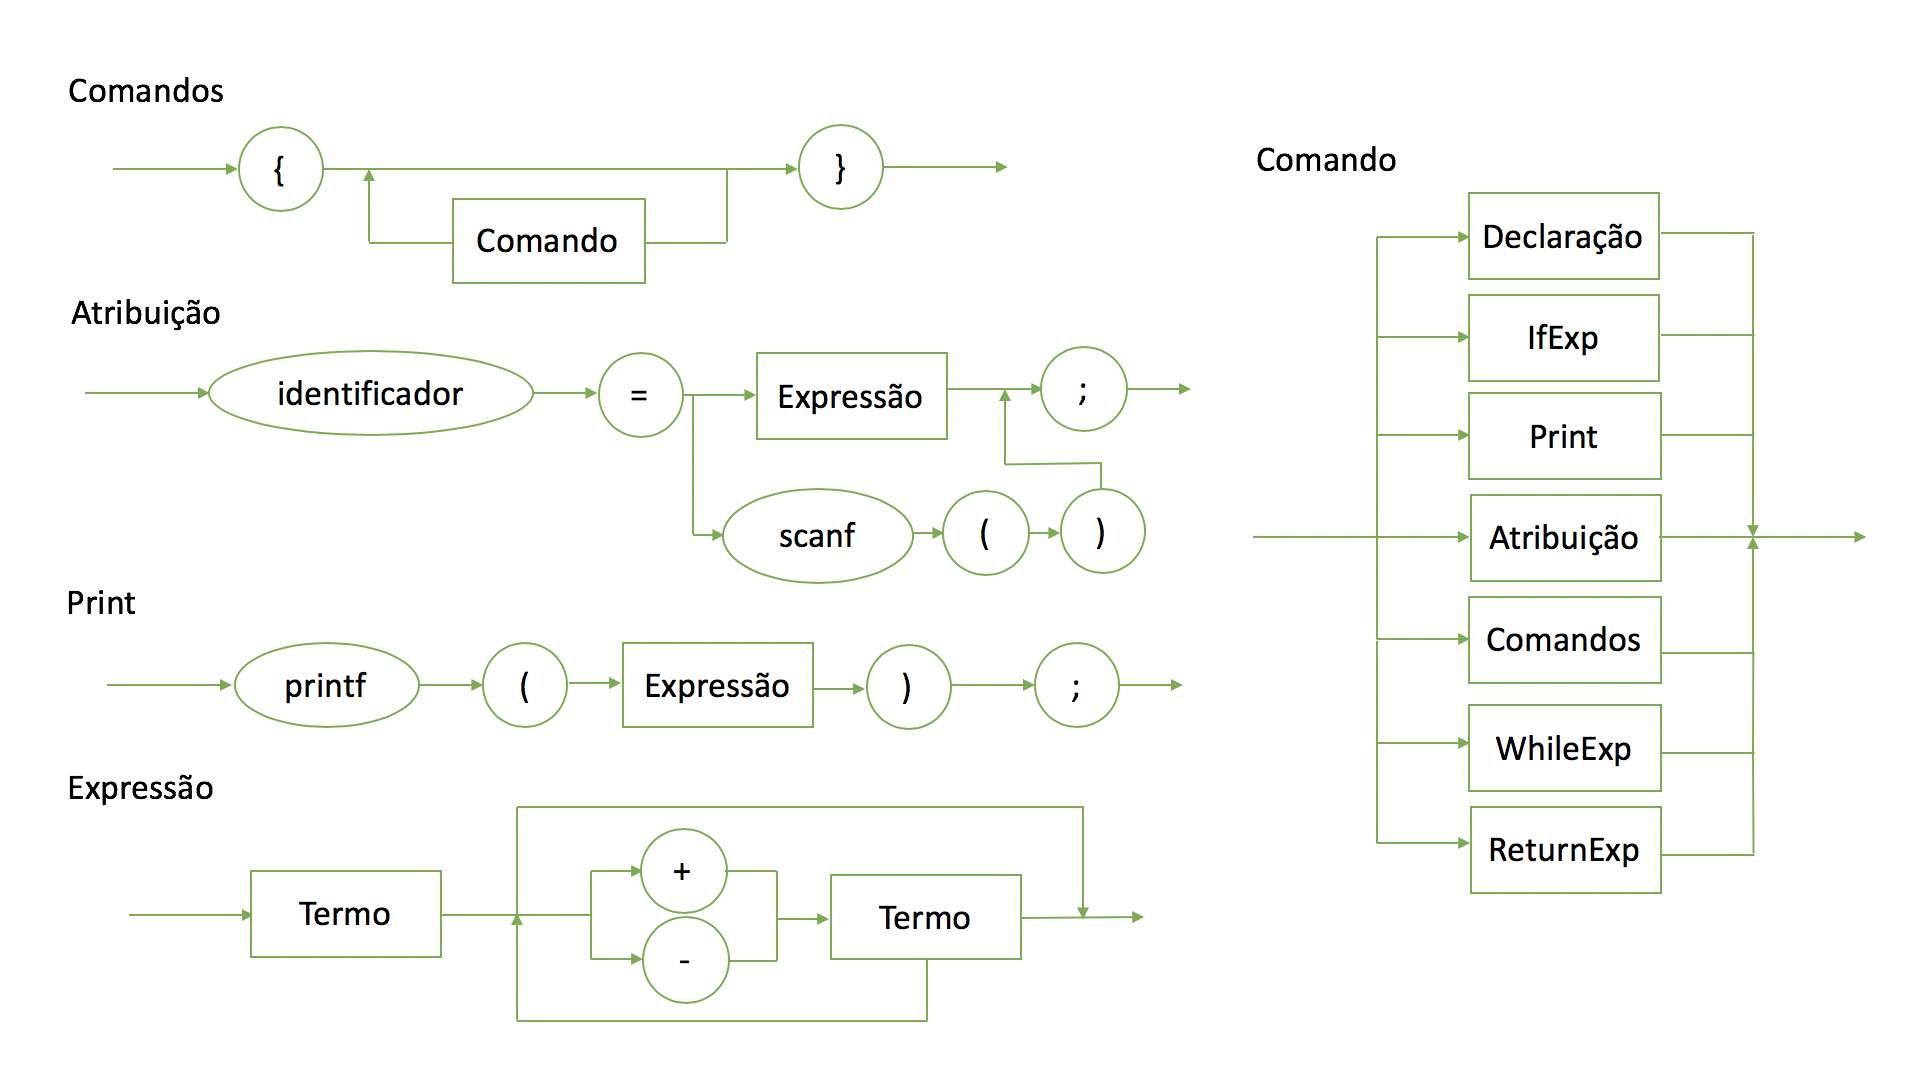
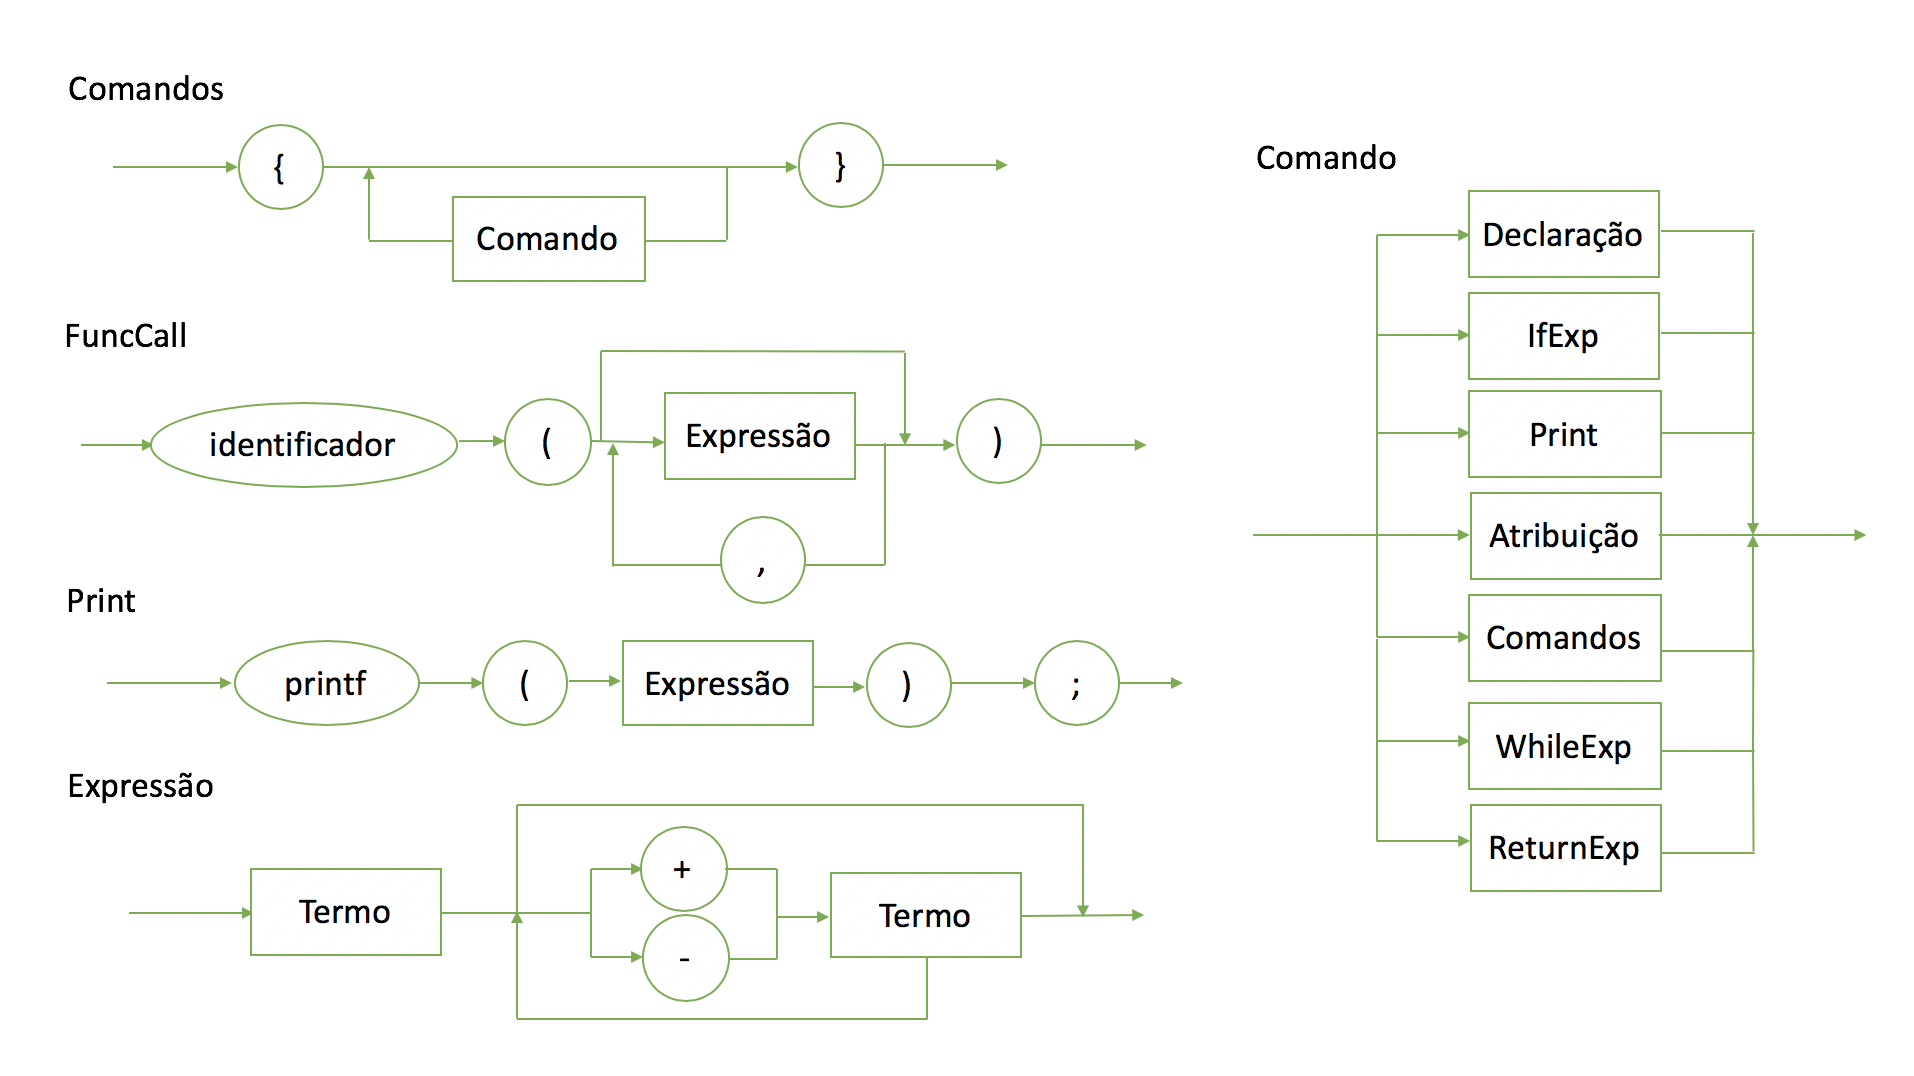
ebnf

diff --git a/README.md b/README.md
@@ -7,19 +7,41 @@
 ![](DiagramaSintatico/DS_v2.4(4).png)
 ![](DiagramaSintatico/DS_v2.4(5).png)
 ### EBNF:
+
 ```
-comandos = "{", comando, ";", { comando, ";" }, "}" ;
-comando = atribuição | comandos | print | ifExp | whileExp;
-print = printf, "(", expressão, ")" ;
-atribuição = identificador, "=", (expressão | "scanf", "(", ")" ) ;
-expressão = termo, { ("+" | "-"), termo } ;
-termo = fator, { ("*" | "/"), fator } ;
-fator = ("+" | "-"), fator | número | "(", expressão, ")" | identificador ;
-printf = "printf";
-whileExp = "while","(", booleanExp , ")", comando;
-ifExp = "if", "(", booleanExp, ")", comando, ( | "else", comando);
-booleanExp = booleanTerm, { "||" , booleanTerm};
-booleanTerm = booleanFactor, { "&&" , booleanFactor};
+programa = { tipo, identificador, "(" ( | { tipo, identificador, ',' }, tipo, identificador ), ")", comandos };
+
+tipo = "void" | "int" | "char";
+
+comandos = "{", { comando }, "}" ;
+
+comando = atribuição | comandos | print | ifExp | whileExp | declaração | returnExp;
+
+print = "printf", "(", expressão, ")", ";" ;
+
+declaração = tipo, identificador, ( "(" ( | { tipo, identificador, ',' }, tipo, identificador), ")"  |  { ",", identificador}, ";" );
+
+atribuição = identificador, "=", ( expressão | "scanf", "(", ")" | funcCall ) ;
+
+returnExp = "return", "(", expressão,  ")", ";"
+
+expressão = termo, { ( "+" | "-" ), termo } ;
+
+termo = fator, { ( "*" | "/" ), fator } ;
+
+fator = ( "+" | "-" ), fator | número | "(", expressão, ")" | identificador | funcCall;
+
+funcCall = identificador, "(" , ( | expressão { "," expressão } ), ")";
+
+whileExp = "while", "(", booleanExp, ")", comando;
+
+ifExp = "if", "(", booleanExp, ")", comando, ( | "else", comando );
+
+booleanExp = booleanTerm, { "||" , booleanTerm };
+
+booleanTerm = booleanFactor, { "&&" , booleanFactor };
+
 booleanFactor = RelExp | "!", booleanFactor;
+
 RelExp = expressão, (">"| "==" | "<"), expressão ;
 ```
